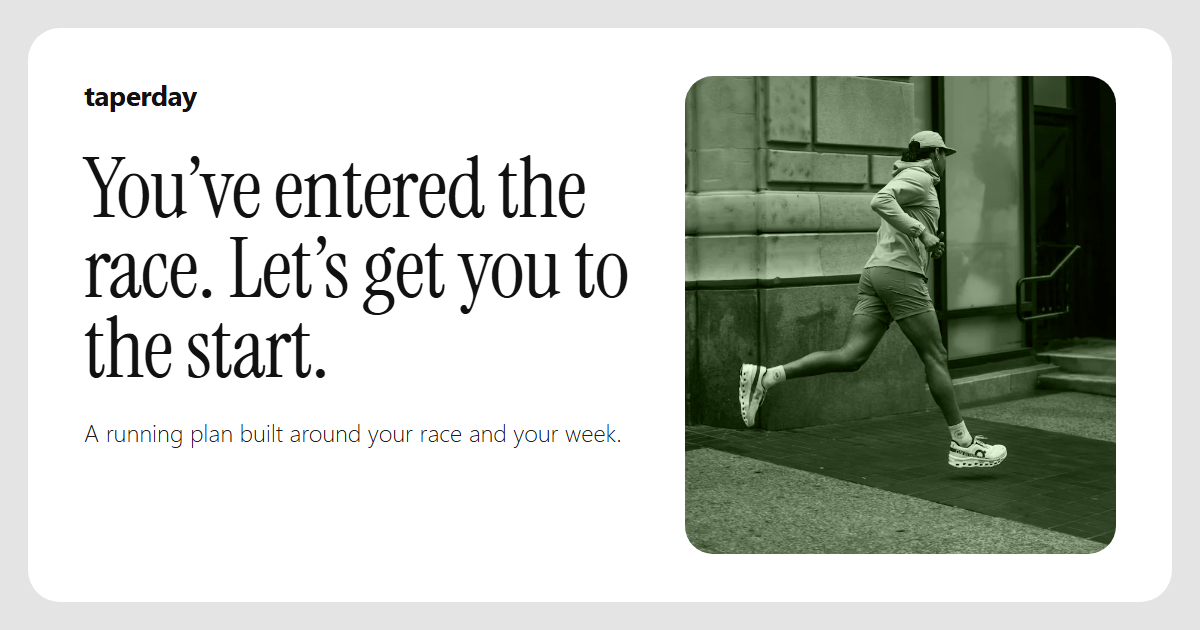
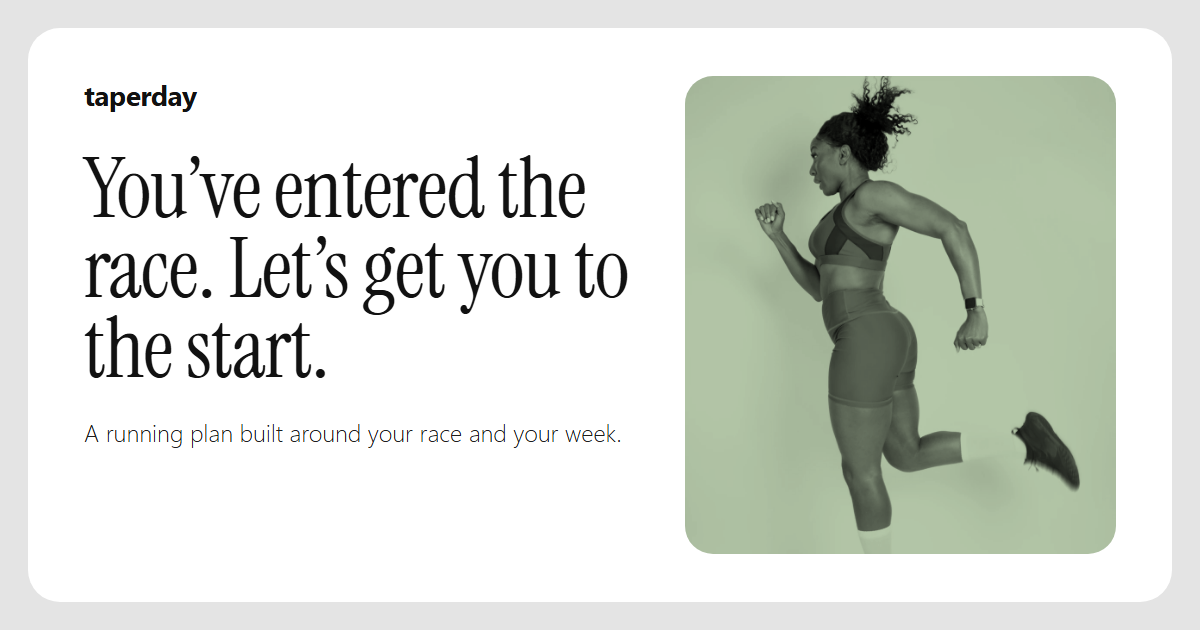
feat(landing): free Unsplash runner photo (April Laugh, Unsplash License) in black and white on the sage card
Replaces the photo whose licence wasn't Taperday's. The card shows the photo greyscale and multiplied into sage,
so it stays one colour whatever the runner wears; the share card is re-rendered to match.

Changed region(s): [[0.555, 0.1206, 0.9558, 0.9048]]

diff --git a/client/src/styles/skin.css b/client/src/styles/skin.css
@@ -127,14 +127,21 @@ h3 { font-family: var(--font-body); font-weight: 600; letter-spacing: -0.01em; t
 .hero-actions .button-primary { padding: 16px 28px; font-weight: 600; }
 .hero-link { display: inline-flex; align-items: center; gap: 8px; color: var(--ink); font-weight: 600; text-decoration: underline; text-underline-offset: 4px; }
 
-/* The runner card: the photo toned sage, the real countdown and race in frosted cards over it. */
+/* The runner card: the photo toned sage, the real countdown and race in frosted cards over it.
+ * Photo: April Laugh on Unsplash (unsplash.com/photos/Zl4mBgNZEAk), free under the Unsplash License. */
 .countdown {
   position: relative; overflow: visible; border: 0; border-radius: 32px; box-shadow: none; transform: none;
   padding: 0; min-height: 30rem; max-width: 22rem; align-content: end;
-  background: var(--sage) url('/landing/runner.webp') 42% 92% / auto 150% no-repeat;
-  background-blend-mode: luminosity;
+  background: var(--sage);
+  isolation: isolate;
 }
-.countdown::before { content: none; }
+/* The photo in black and white, multiplied into the sage, so the card stays one colour whatever the runner wears. */
+.countdown::before {
+  content: ''; position: absolute; inset: 0; z-index: -1; border-radius: inherit;
+  background: url('/landing/runner.webp') 50% 30% / cover no-repeat;
+  filter: grayscale(1) contrast(1.05);
+  mix-blend-mode: multiply;
+}
 .countdown-ring {
   position: absolute; right: -40px; top: 40px; width: 9.5rem; height: auto; padding: 14px;
   border-radius: 22px; background: var(--glass); border: 1px solid var(--frost-edge);
@@ -143,7 +150,7 @@ h3 { font-family: var(--font-body); font-weight: 600; letter-spacing: -0.01em; t
 .countdown-track { stroke: rgba(0, 0, 0, 0.1); }
 .countdown-fill { stroke: var(--ink); filter: none; }
 .countdown-number span { font-family: var(--font-display); font-weight: 400; color: var(--ink); font-size: 2.6rem; }
-.countdown-number small { font-family: var(--font-body); color: var(--ink-2); font-size: 0.7rem; font-weight: 500; }
+.countdown-number small { font-family: var(--font-body); color: var(--ink-2); font-size: 0.62rem; font-weight: 500; letter-spacing: 0; }
 .countdown-race {
   position: absolute; right: -36px; bottom: 28px; text-align: left; justify-items: start;
   padding: 18px 22px; border-radius: 22px; background: var(--glass); border: 1px solid var(--frost-edge);
@@ -183,8 +190,8 @@ h3 { font-family: var(--font-body); font-weight: 600; letter-spacing: -0.01em; t
 /* Below desktop the hero stacks: the runner card spans the width with its frosted cards inside it. */
 @media (max-width: 63.99rem) {
   .intro.hero { flex-direction: column; align-items: stretch; }
-  .countdown { min-height: 28rem; max-width: none; width: 100%; background-size: auto 165%; background-position: 40% 95%; }
-  .countdown-ring { right: 12px; top: 64px; width: 8rem; }
+  .countdown { min-height: 28rem; max-width: none; width: 100%; }
+  .countdown-ring { right: 12px; top: 64px; width: 9rem; }
   .countdown-race { right: 16px; left: 16px; bottom: 16px; }
   .countdown::after { left: 12px; top: 14px; }
 }
